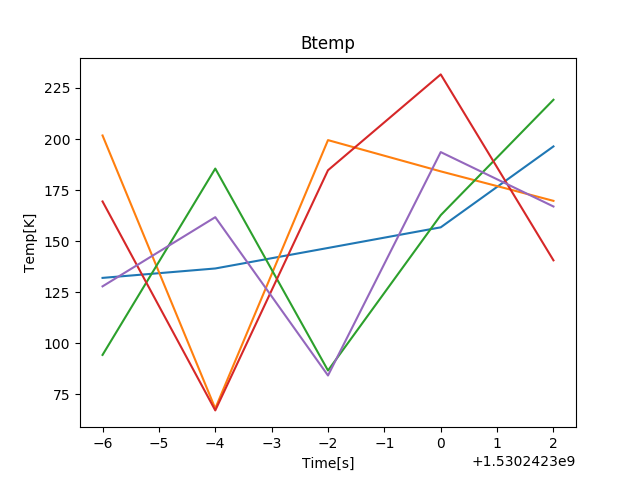
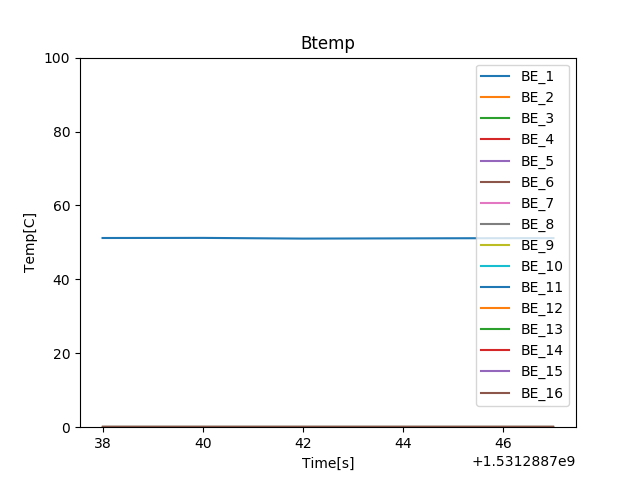
debug

diff --git a/data_client.py b/data_client.py
@@ -85,7 +85,24 @@ class data_client(object):
         t = datetime.datetime.strptime(timestamp, '%Y-%m-%dT%H:%M:%S.%fPC  ')
         unixtime = calendar.timegm(t.timetuple()) + t.microsecond / 1e6
         return unixtime
+    """Sealed
+    # Master Func
+    # -------------
+    def xffts(self):
+        th_spec = threading.Thread(target = self.con_spec())
+        th_spec.setDaemon(True)
+        th_spec.start()
 
+        th_conti = threading.Thread(target = self.con_conti())
+        th_conti.setDaemon(True)
+        th_conti.start()
+        
+        th_btemp = threading.Thread(target = self.con_btemp())
+        th_btemp.setDaemon(True)
+        th_btemp.start()
+
+        return
+    """
     # Spectrum Func
     # -------------
     def spec(self):
@@ -102,6 +119,7 @@ class data_client(object):
         spec = self.oneshot(integtime, repeat, start)
 
         unixtime = spec[1]
+        print(unixtime)
         spectrum = numpy.array(spec[2])
 
         for i in range(numpy.shape(spectrum)[1]):
@@ -114,7 +132,7 @@ class data_client(object):
         plt.plot(spectrum[0, 0, :])
         plt.title("spec", loc='center')
         plt.xlabel("Channel")
-        plt.ylabel("Power")
+        plt.ylabel("Count")
         plt.xlim(0, 32768)
         plt.savefig(dir1+'XFFTS_oneshot_graph.png')
         
@@ -132,9 +150,9 @@ class data_client(object):
         synctime = req.synctime
         start = req.timestamp + req.rugtime
         
-        while True:
+        while not rospy.is_shutdown():
             spec = self.oneshot(integtime, repeat, start)
-            
+            print("SPEC running...")
             unixtime = spec[1]
             spectrum = numpy.array(spec[2])
 
@@ -148,7 +166,7 @@ class data_client(object):
                 plt.plot(spectrum[0, i, :])
                 plt.title("spec_BE{}".format(i+1), loc='center')
                 plt.xlabel("Channel")
-                plt.ylabel("Power")
+                plt.ylabel("Count")
                 plt.xlim(0, 32768)
                 plt.savefig(dir1+'XFFTS_spec_graph_BE{}.png'.format(i+1))
                 plt.close()
@@ -210,7 +228,7 @@ class data_client(object):
         # subscribe data
         # --------------
         self.data_subscriber(integtime=integtime, repeat=repeat, waittime=waittime)
-
+        #print(self.unixlist)
         # data integration
         # ----------------
         spectrum = []
@@ -322,8 +340,9 @@ class data_client(object):
         
         timelist = []
         data = numpy.array([])
-        while True:
+        while not rospy.is_shutdown():
             conti = self.conti_oneshot(integtime, repeat, start)
+            print("Conti running...")
             
             unixtime = conti[1]
             continuum = numpy.array(conti[2])
@@ -333,11 +352,13 @@ class data_client(object):
                 plt.figure()
                 data = numpy.reshape(data, (5, numpy.shape(continuum)[1]))
                 data = numpy.transpose(data)
-                for i in range(len(timelist)):
-                    plt.plot(timelist, data[i])
+                for i in range(len(data)):
+                    plt.plot(timelist, data[i], label = "BE_{}".format(i+1))
                 plt.title("Conti", loc='center')
                 plt.xlabel("Time[s]")
-                plt.ylabel("Power")
+                plt.ylabel("Sum")
+                #plt.ylim([0,]) please set upper limit
+                plt.legend(loc = "upper right")
                 plt.savefig(dir2+'XFFTS_conti_graph.png')
                 plt.close()
 
@@ -389,7 +410,7 @@ class data_client(object):
         # subscribe data
         # --------------
         self.conti_data_subscriber(integtime=integtime, repeat=repeat, waittime=waittime)
-
+        #print(self.conti_unixlist)
         # data integration
         # ----------------
         spectrum = []
@@ -462,12 +483,14 @@ class data_client(object):
         btemp = self.btemp_oneshot(sec, start)
         
         unixtime = btemp[0]
+        print(unixtime)
         data = btemp[1]
+        """
         hdu1 = fits.PrimaryHDU(unixtime)
         hdu2 = fits.ImageHDU(data)
         hdulist = fits.HDUList([hdu1, hdu2])
         hdulist.writeto(dir+'btemp_oneshot_{}.fits'.format(round(unixtime[0])))
-        
+        """
         return
 
 
@@ -476,14 +499,32 @@ class data_client(object):
         timelist = []
         temp = numpy.array([])
 
-        while True:
+        while not rospy.is_shutdown():
             btemp = self.btemp_oneshot(sec, start)
-            
+            print("Btemp running...")
+
             unixtime = btemp[0]
             data = btemp[1]
-            hdu1 = fits.PrimaryHDU(unixtime)
-            hdu2 = fits.ImageHDU(data)
-            hdulist = fits.HDUList([hdu1, hdu2])
+            
+            hdu = fits.PrimaryHDU(unixtime)
+            hdu1 = fits.ImageHDU(data[0][0])
+            hdu2 = fits.ImageHDU(data[0][1])
+            hdu3 = fits.ImageHDU(data[0][2])
+            hdu4 = fits.ImageHDU(data[0][3])
+            hdu5 = fits.ImageHDU(data[0][4])
+            hdu6 = fits.ImageHDU(data[0][5])
+            hdu7 = fits.ImageHDU(data[0][6])
+            hdu8 = fits.ImageHDU(data[0][7])
+            hdu9 = fits.ImageHDU(data[0][8])
+            hdu10 = fits.ImageHDU(data[0][9])
+            hdu11 = fits.ImageHDU(data[0][10])
+            hdu12 = fits.ImageHDU(data[0][11])
+            hdu13 = fits.ImageHDU(data[0][12])
+            hdu14 = fits.ImageHDU(data[0][13])
+            hdu15 = fits.ImageHDU(data[0][14])
+            hdu16 = fits.ImageHDU(data[0][15])
+            hdulist = fits.HDUList([hdu, hdu1, hdu2, hdu3, hdu4, hdu5, hdu6, hdu7, hdu8,
+            hdu9, hdu10, hdu11, hdu12, hdu13, hdu14, hdu15, hdu16])
             hdulist.writeto(dir+"XFFTS_btemp_{}.fits.".format(unixtime[0]))
             
             timelist.append(unixtime[0])
@@ -492,11 +533,16 @@ class data_client(object):
                 plt.figure()
                 temp = numpy.reshape(temp, (5, len(data[0])))
                 temp = numpy.transpose(temp)
-                for i in range(len(timelist)):
-                    plt.plot(timelist, temp[i])
+                for i in range(len(temp)):
+                    temp_data = []
+                    for j in range(len(temp[i])):
+                        temp_data.append(temp[i][j][0])#代表値
+                    plt.plot(timelist, temp_data, label = "BE_{}".format(i+1))
                 plt.title("Btemp", loc='center')
                 plt.xlabel("Time[s]")
-                plt.ylabel("Temp[K]")
+                plt.ylabel("Temp[C]")
+                plt.ylim([0,100])
+                plt.legend(loc = "upper right")
                 plt.savefig(dir3+'XFFTS_btemp_graph.png')
                 plt.close()
 

diff --git a/data_server.py b/data_server.py
@@ -9,8 +9,8 @@ import struct
 import signal
 import threading
 
-sys.path.append('/home/amigos/ros/src/NASCORX')
-from NASCORX_XFFTS import udp_client
+sys.path.append('/home/amigos/ros/src/NASCORX_XFFTS')
+import udp_client
 
 from NASCORX.msg import XFFTS_msg
 from NASCORX.msg import XFFTS_pm_msg
@@ -170,11 +170,11 @@ class data_server(object):
                 elif header.BE_num <= i+1:
                     spec.append([0])
                     pow.append(0)
-            s1 = spec[0]
-            s2 = spec[1]
+            #s1 = spec[0]
+            #s2 = spec[1]
 
-            print(s1[10])
-            print(s2[10])
+            #print(s1[10])
+            #print(s2[10])
 
             # ROS Data Trans
             # --------------
@@ -296,7 +296,7 @@ class data_server(object):
             # ROS Data Trans
             # --------------
             XFFTS_TEMP.timestamp = timestamp
-            XFFTS_TEMP.USED_BE = used
+            #XFFTS_TEMP.USED_BE = used
             XFFTS_TEMP.TEMP_BE1 = temps[0]
             XFFTS_TEMP.TEMP_BE2 = temps[1]
             XFFTS_TEMP.TEMP_BE3 = temps[2]

diff --git a/data_client_du.py b/data_client_du.py
@@ -13,7 +13,7 @@ import matplotlib.pyplot as plt
 
 from NASCORX_XFFTS.msg import XFFTS_msg
 from NASCORX_XFFTS.msg import XFFTS_pm_msg
-from NASCORX_XFFTS.msg import XFFTS_temp_msg
+from NASCORX_XFFTS.msg import XFFTS_temp_msg_du
 from NASCORX_XFFTS.msg import XFFTS_para_msg
 
 dir = '/home/amigos/ros/src/NASCORX_XFFTS/data/'
@@ -580,7 +580,7 @@ class data_client(object):
         return [unixlist, templist]
 
     def btemp_data_subscriber(self, sec, waittime):
-        sub3 = rospy.Subscriber('XFFTS_TEMP', XFFTS_temp_msg, self.btemp_append)
+        sub3 = rospy.Subscriber('XFFTS_TEMP', XFFTS_temp_msg_du, self.btemp_append)
         time.sleep(waittime+sec+1)
         sub3.unregister()
         return
